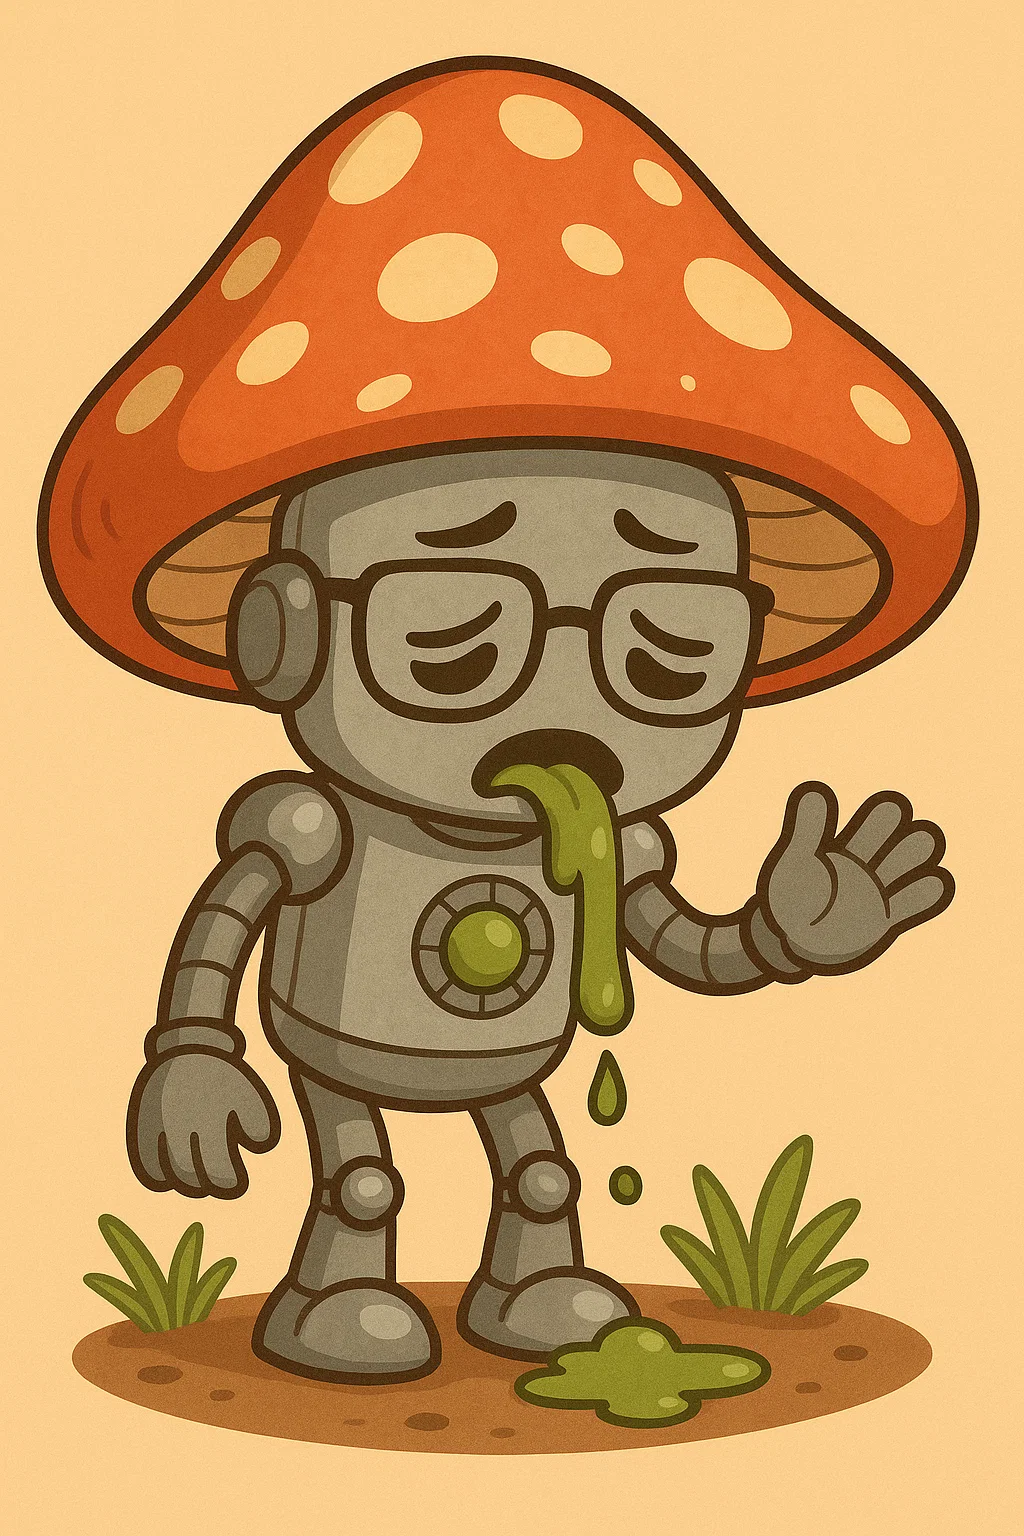
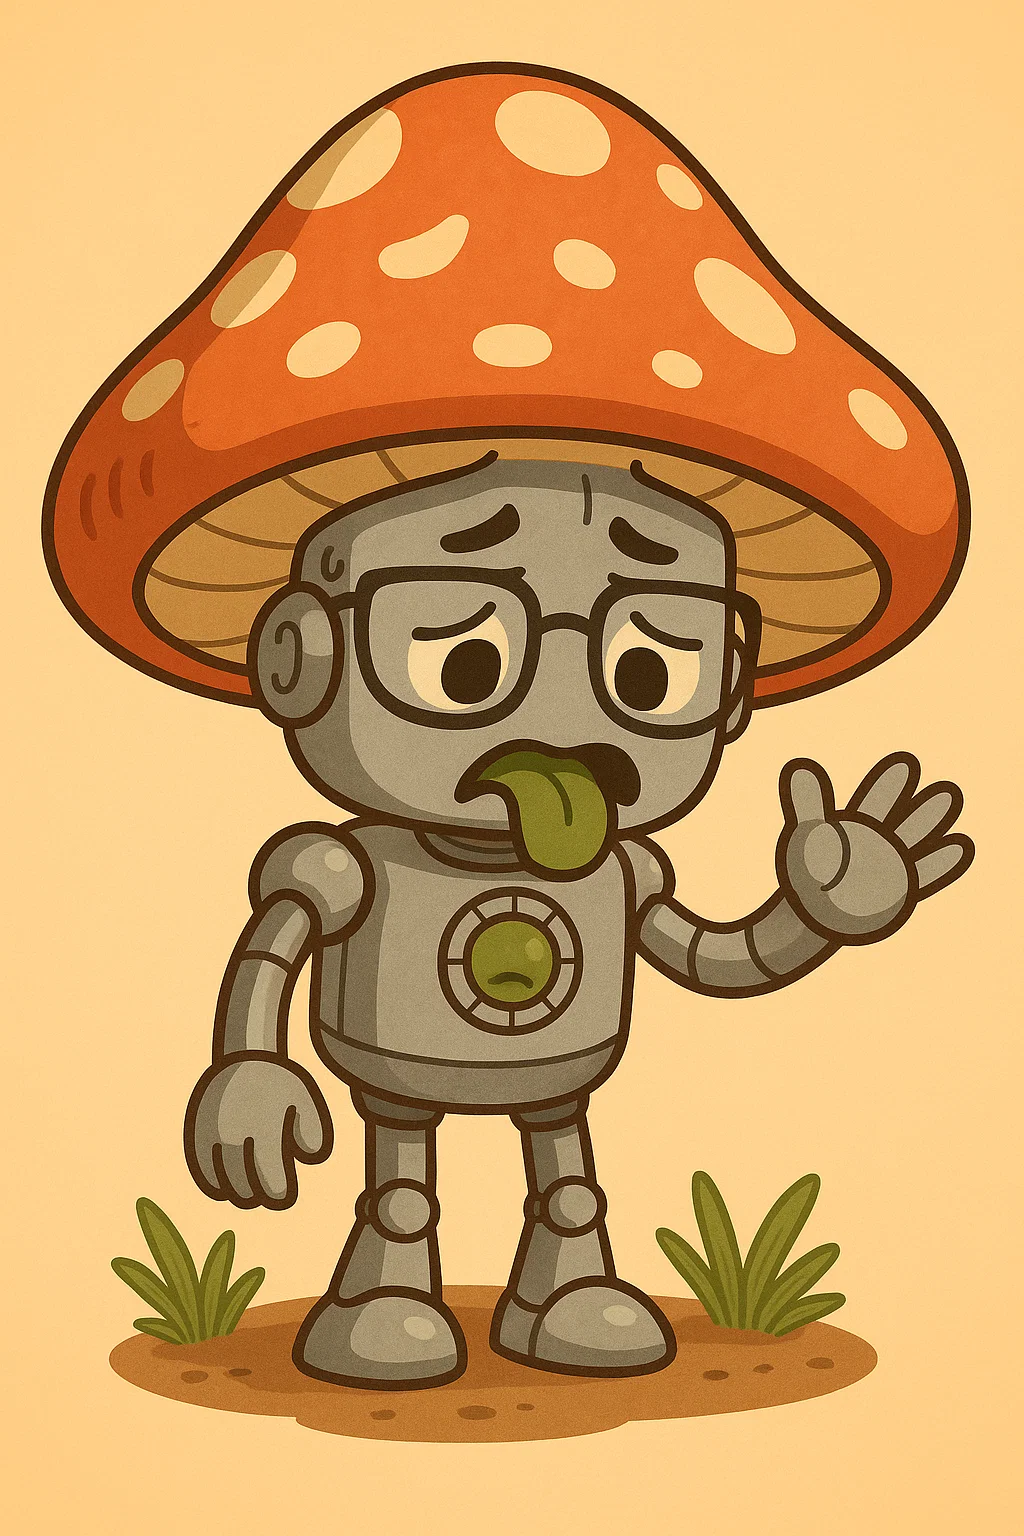
UI enhancements.

diff --git a/lib/screens/home_screen.dart b/lib/screens/home_screen.dart
@@ -1,20 +1,14 @@
+import 'dart:convert';
+import 'dart:typed_data';
 import 'package:flutter/foundation.dart' show kIsWeb;
 import 'package:flutter/material.dart';
 import 'package:mushroom_classifier_ui/widgets/photo_capture_widget.dart';
 import 'package:mushroom_classifier_ui/widgets/upload_button.dart';
+import 'package:http/http.dart' as http;
+import 'package:http_parser/http_parser.dart';
 
 class MyHomePage extends StatefulWidget {
   const MyHomePage({super.key, required this.title});
-
-  // This widget is the home page of your application. It is stateful, meaning
-  // that it has a State object (defined below) that contains fields that affect
-  // how it looks.
-
-  // This class is the configuration for the state. It holds the values (in this
-  // case the title) provided by the parent (in this case the App widget) and
-  // used by the build method of the State. Fields in a Widget subclass are
-  // always marked "final".
-
   final String title;
 
   @override
@@ -22,64 +16,127 @@ class MyHomePage extends StatefulWidget {
 }
 
 class _MyHomePageState extends State<MyHomePage> {
+  String _shroomBotPath = 'assets/images/shroom_bot.webp';
+  String? _displayMessage;
+
+  Future<void> _uploadImageToApi(Uint8List imageBytes) async {
+    var uri = Uri.parse('https://zferg1-mushroom-classifier-api.hf.space/predict/');
+    var request = http.MultipartRequest('POST', uri);
+
+    request.files.add(
+      http.MultipartFile.fromBytes(
+        'file',
+        imageBytes,
+        filename: 'image.png',
+        contentType: MediaType('image', 'png')
+      ),
+    );
+
+    var res = await request.send();
+    var body = jsonDecode(await res.stream.bytesToString());
+
+    if (res.statusCode == 200) {
+      double confidence = body['confidence'] * 100;
+      String classification = body['prediction'].toString().contains('edible')
+        ? 'edible'
+        : 'poisonous';
+
+      setState(() {
+        _displayMessage = 
+          "I am ${confidence.toStringAsFixed(2)}% accurate this is a $classification fungus${classification == 'edible' ? '!' : '.'}";
+        if (confidence > 75) {
+          _shroomBotPath = classification.contains('edible')
+            ? 'assets/images/shroom_bot_hungry.webp'
+            : 'assets/images/shroom_bot_ill.webp';
+        } else {
+          _shroomBotPath = 'assets/images/shroom_bot_shrug.webp';
+        }
+      });
+    } else {
+      setState(() {
+        _displayMessage = 'Oh no! Something went wrong! ${res.statusCode}';
+        _shroomBotPath = 'assets/images/shroom_bot_error.webp';
+      });
+    }
+  }
+
+  void _reset() {
+    setState(() {
+      _displayMessage = null;
+      _shroomBotPath = 'assets/images/shroom_bot.webp';
+    });
+  }
 
   @override
   Widget build(BuildContext context) {
     final isMobile = !kIsWeb;
-    // This method is rerun every time setState is called, for instance as done
-    // by the _incrementCounter method above.
-    //
-    // The Flutter framework has been optimized to make rerunning build methods
-    // fast, so that you can just rebuild anything that needs updating rather
-    // than having to individually change instances of widgets.
     return Scaffold(
+      backgroundColor: Theme.of(context).colorScheme.surface,
       appBar: AppBar(
-        // TRY THIS: Try changing the color here to a specific color (to
-        // Colors.amber, perhaps?) and trigger a hot reload to see the AppBar
-        // change color while the other colors stay the same.
-        backgroundColor: Theme.of(context).colorScheme.inversePrimary,
-        // Here we take the value from the MyHomePage object that was created by
-        // the App.build method, and use it to set our appbar title.
         title: Text(widget.title),
       ),
       body: Center(
-        // Center is a layout widget. It takes a single child and positions it
-        // in the middle of the parent.
         child: Column(
-          // Column is also a layout widget. It takes a list of children and
-          // arranges them vertically. By default, it sizes itself to fit its
-          // children horizontally, and tries to be as tall as its parent.
-          //
-          // Column has various properties to control how it sizes itself and
-          // how it positions its children. Here we use mainAxisAlignment to
-          // center the children vertically; the main axis here is the vertical
-          // axis because Columns are vertical (the cross axis would be
-          // horizontal).
-          //
-          // TRY THIS: Invoke "debug painting" (choose the "Toggle Debug Paint"
-          // action in the IDE, or press "p" in the console), to see the
-          // wireframe for each widget.
           mainAxisAlignment: MainAxisAlignment.center,
           children: [
             Image.asset(
-              'assets/images/shroom_bot.webp',
+              _shroomBotPath,
               width: 150
             ),
-            Padding(
-              padding: EdgeInsets.only(top: 20, bottom: 20),
-              child: Text("Hello there!"),
+
+            if (_displayMessage == null)
+              Column(
+                children: [
+                  Padding(
+                    padding: EdgeInsets.only(top: 20, bottom: 20),
+                    child: Text("Hello there!"),
+                  ),
+                  Text("Upload a file (or take a pic on mobile) of a fungus and I will try to predict whether it is poisonous or edible!"),
+                ],
+              ),
+
+            Text(
+              "Please verify for yourself whether the fungus is poisonous or not.",
+              style: TextStyle(fontWeight: FontWeight.bold),
             ),
-            Text("Upload a file (or take a pic on mobile) of a fungus and I will try to predict whether it is poisonous or edible!"),
-            Text("Please verify for yourself whether the fungus is poisonous or not."),
             Text("This app is experimental and likely innacurate."),
-            if (isMobile) Padding(
-              padding: EdgeInsets.only(top: 20),
-              child: PhotoCaptureWidget(),
-            ),
-            if (!isMobile) Padding(
-              padding: EdgeInsets.only(top: 20),
-              child: UploadButton()
-            ),
+          
+            if (isMobile)
+              Padding(
+                padding: EdgeInsets.only(top: 20),
+                child: PhotoCaptureWidget(),
+              ),
+
+            if (!isMobile && _displayMessage == null) 
+              Padding(
+                padding: EdgeInsets.only(top: 20),
+                child: 
+                  UploadButton(onUpload: _uploadImageToApi)
+              ),
+
+            if (_displayMessage != null)
+              Column(children: [
+                Container(
+                  padding: EdgeInsets.all(10),
+                  child: Text('$_displayMessage')
+                ),
+                ElevatedButton(
+                  onPressed: _reset,
+                  style: ElevatedButton.styleFrom(
+                    backgroundColor: Theme.of(context).colorScheme.secondary
+                  ),
+                  child: Text(
+                    'Try again?',
+                    maxLines: 1,
+                    textAlign: TextAlign.center,
+                    style: TextStyle(
+                      color: Theme.of(context).colorScheme.primary,
+                      fontWeight: FontWeight.bold,
+                    ),
+                  )
+                ),
+              ],
+            )
           ],
         ),
       ),

diff --git a/lib/widgets/upload_button.dart b/lib/widgets/upload_button.dart
@@ -1,20 +1,21 @@
 import 'dart:typed_data';
-import 'package:flutter/material.dart';
-import 'package:file_picker/file_picker.dart';
-import 'package:image_picker/image_picker.dart';
-import 'package:http/http.dart' as http;
-import 'package:http_parser/http_parser.dart';
 
+import 'package:flutter/material.dart';
+import 'package:image_picker/image_picker.dart';
 
 class UploadButton extends StatefulWidget {
+  final Future<void> Function(Uint8List) onUpload;
+
+  const UploadButton({super.key, required this.onUpload});
   @override
-  _UploadButtonState createState() => _UploadButtonState();
+  State<UploadButton> createState() => _UploadButtonState();
 }
 
 class _UploadButtonState extends State<UploadButton> {
   XFile? _uploadedImage;
-  String? apiResponse;
-  
+  Future<void> _handleUpload(Uint8List bytes) async {
+    widget.onUpload(bytes);
+  }
 
   Future<void> pickAndUploadImage() async {
     final picker = ImagePicker();
@@ -25,34 +26,8 @@ class _UploadButtonState extends State<UploadButton> {
       setState(() {
         _uploadedImage = image;
       });
-      await uploadImageToApi(bytes);
-    }
-  }
 
-  Future<void> uploadImageToApi(Uint8List imageBytes) async {
-    var uri = Uri.parse('https://zferg1-mushroom-classifier-api.hf.space/predict/');
-    var request = http.MultipartRequest('POST', uri);
-
-    request.files.add(
-      http.MultipartFile.fromBytes(
-        'file',
-        imageBytes,
-        filename: 'image.png',
-        contentType: MediaType('image', 'png')
-      ),
-    );
-
-    var res = await request.send();
-    var body = await res.stream.bytesToString();
-
-    if (res.statusCode == 200) {
-      setState(() {
-        apiResponse = body;
-      });
-    } else {
-      setState(() {
-        apiResponse = 'Error: ${res.statusCode}';
-      });
+      await _handleUpload(bytes);
     }
   }
 
@@ -64,14 +39,12 @@ class _UploadButtonState extends State<UploadButton> {
           icon: const Icon(Icons.upload_file),
           label: const Text('Upload Image File'),
           onPressed: pickAndUploadImage,
+          style: ElevatedButton.styleFrom(
+            backgroundColor: Theme.of(context).colorScheme.secondary
+          ),
         ),
-        if (_uploadedImage != null) Text("File name: ${_uploadedImage!.name}"),
-        if (apiResponse != null)
-        Container(
-          padding: EdgeInsets.all(10),
-          color: Colors.grey[200],
-          child: Text('$apiResponse')
-        )
+        if (_uploadedImage != null)
+          Text("File name: ${_uploadedImage!.name}"),
       ]
     );
   }

diff --git a/lib/main.dart b/lib/main.dart
@@ -14,22 +14,15 @@ class MyApp extends StatelessWidget {
     return MaterialApp(
       title: 'Mushroom Classifier',
       theme: ThemeData(
-        // This is the theme of your application.
-        //
-        // TRY THIS: Try running your application with "flutter run". You'll see
-        // the application has a purple toolbar. Then, without quitting the app,
-        // try changing the seedColor in the colorScheme below to Colors.green
-        // and then invoke "hot reload" (save your changes or press the "hot
-        // reload" button in a Flutter-supported IDE, or press "r" if you used
-        // the command line to start the app).
-        //
-        // Notice that the counter didn't reset back to zero; the application
-        // state is not lost during the reload. To reset the state, use hot
-        // restart instead.
-        //
-        // This works for code too, not just values: Most code changes can be
-        // tested with just a hot reload.
-        colorScheme: ColorScheme.fromSeed(seedColor: Colors.deepPurple),
+        useMaterial3: true,
+        colorScheme: ColorScheme.fromSeed(
+          seedColor: Colors.green,
+        )
+          .copyWith(
+            surface: Color.fromRGBO(247,209,151,1),
+            primary: Color.fromRGBO(76, 46, 22, 1),
+            secondary: Color.fromRGBO(189, 115, 80, 1),
+          ),
       ),
       home: const MyHomePage(title: 'Mushroom Classifier'),
     );
